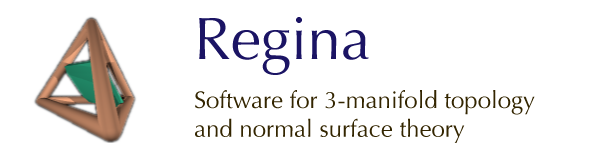
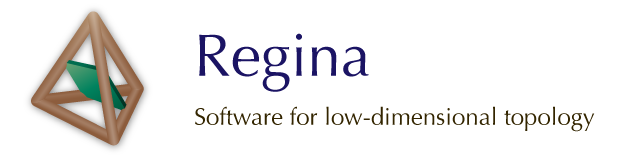
More rebranding of the short description.

diff --git a/qtui/src/reginaabout.cpp b/qtui/src/reginaabout.cpp
@@ -58,7 +58,7 @@ const QString ReginaAbout::regCopyright(
     tr("Copyright (c) 1999-2016, The Regina development team"));
 
 const QString ReginaAbout::regDescription(
-    tr("Software for 3-manifold topology and normal surface theory"));
+    tr("Software for low-dimensional topology"));
 
 const QString ReginaAbout::regReleased(
     tr("Released %1").arg(QDate(2014, 8, 29).toString(Qt::TextDate)));
@@ -71,7 +71,7 @@ const QString ReginaAbout::regLicense( tr(
     "If you find Regina useful in your research, please consider citing it as\n"
     "you would any other paper that you use.  A suggested form of reference is:\n\n"
     "  Benjamin A. Burton, Ryan Budney, William Pettersson, et al.,\n"
-    "  \"Regina: Software for 3-manifold topology and normal surface theory\",\n"
+    "  \"Regina: Software for low-dimensional topology\",\n"
     "  http://regina.sourceforge.net/, 1999-2016.\n\n"
     "COPYING AND MODIFICATION:\n\n"
     "This program is free software; you can redistribute it and/or modify it\n"

diff --git a/engine/docs.h b/engine/docs.h
@@ -38,7 +38,7 @@
  *
  *  <center><b>
  *  Regina<br>
- *  Software for 3-manifold topology and normal surface theory<br>
+ *  Software for low-dimensional topology<br>
  *  Copyright &copy; 1999-2016, The Regina development team
  *  </b></center>
  *
@@ -64,7 +64,7 @@
  *  you would any other paper that you use.  A suggested form of reference is:
  *
  *  Benjamin A. Burton, Ryan Budney, William Pettersson, et al.,
- *  "Regina: Software for 3-manifold topology and normal surface theory",
+ *  "Regina: Software for low-dimensional topology",
  *  http://regina.sourceforge.net/ , 1999-2016.
  *
  *  <h3>Authors</h3>

diff --git a/python/modulemain.cpp b/python/modulemain.cpp
@@ -64,7 +64,7 @@ using boost::python::self;
 namespace {
     std::string welcome() {
         return std::string(PACKAGE_STRING) +
-            "\nSoftware for 3-manifolds, 4-manifolds and normal surface theory" +
+            "\nSoftware for low-dimensional topology" +
             "\nCopyright (c) 1999-2016, The Regina development team";
     }
 }
